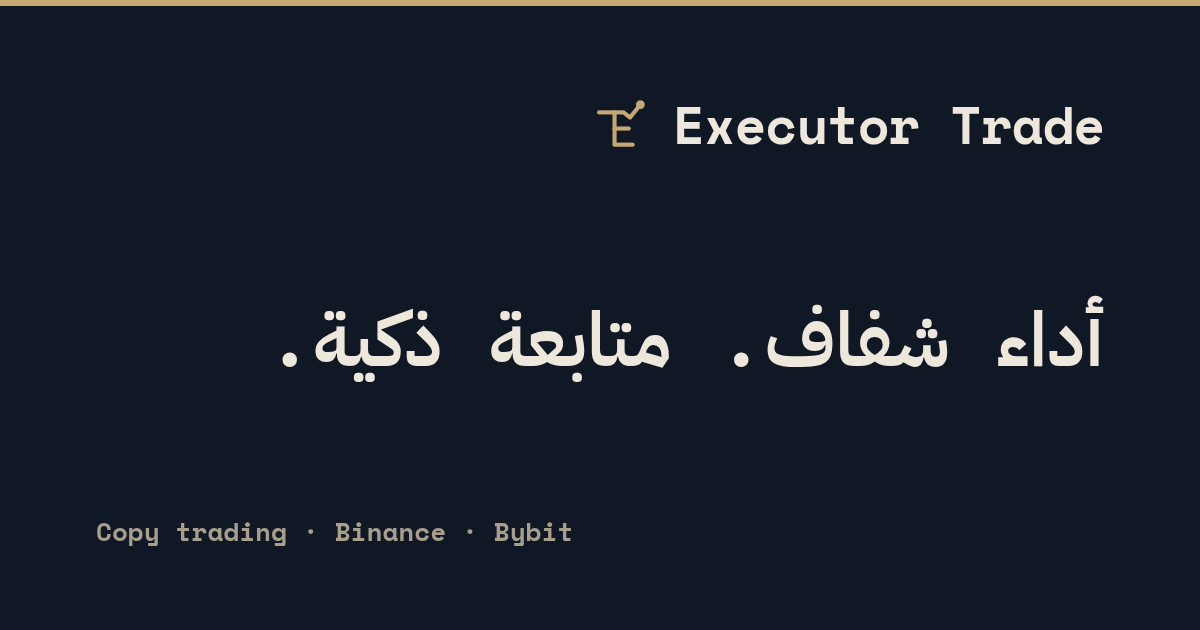
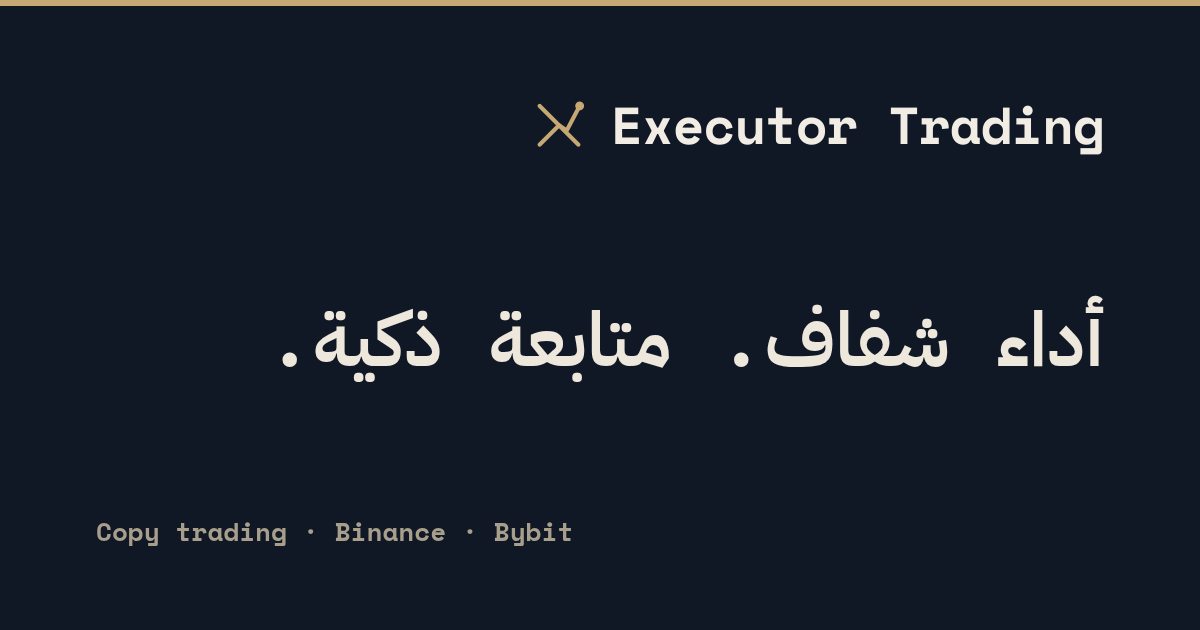
refactor

Changed region(s): [[0.4317, 0.1508, 0.925, 0.2413]]

diff --git a/google-apps-script.js b/google-apps-script.js
@@ -48,7 +48,7 @@ function saveContact(data) {
   MailApp.sendEmail({
     to: CONTACT_TO,
     replyTo: String(data.email || '').slice(0, 200),
-    subject: 'Executor Trade iletişim: ' + (String(data.name || '').slice(0, 100) || data.email),
+    subject: 'Executor Trading iletişim: ' + (String(data.name || '').slice(0, 100) || data.email),
     body: String(data.message || '').slice(0, 5000) + '\n\n— ' + String(data.name || '') + ' <' + String(data.email || '') + '> (' + String(data.lang || '') + ')',
   });
 }

diff --git a/README.md b/README.md
@@ -1,8 +1,8 @@
 A single-page dashboard that visualizes the backtest and live-style performance of the Executor BTC Trend-Following Bot (v5), a professional cryptocurrency algorithmic trading system. View the dashboard at [https://executortrading.com](https://executortrading.com) (English, also /tr/, /ar/, /zh/).
 
-# Executor Trade — Website
+# Executor Trading — Website
 
-Bitcoin (BTC) üzerinde çalışan, trend-takip esaslı algoritmik trading botu **Executor Trade**'in tanıtım ve performans sitesi. [Astro](https://astro.build) + Tailwind ile derlenir. 4 dil: `/` İngilizce (varsayılan), `/tr/`, `/ar/` (RTL), `/zh/`. Tek (koyu) tema. Hakkımızda + 4 yasal sayfa, çerez onayı (GA4 ve Clarity yalnızca onayla yüklenir).
+Bitcoin (BTC) üzerinde çalışan, trend-takip esaslı algoritmik trading botu **Executor Trading**'in tanıtım ve performans sitesi. [Astro](https://astro.build) + Tailwind ile derlenir. 4 dil: `/` İngilizce (varsayılan), `/tr/`, `/ar/` (RTL), `/zh/`. Tek (koyu) tema. Hakkımızda + 4 yasal sayfa, çerez onayı (GA4 ve Clarity yalnızca onayla yüklenir).
 
 Küçük özet veriler (`i18n.json`, `config.json`, `monthly.csv`, `yearly.csv`, `trades.csv`, varsayılan 1 yıllık seri) build zamanında sayfaya gömülür; büyük/nadiren kullanılan veriler (`performance.csv` ve diğer zaman aralığı CSV'leri) tarayıcıda çalışma anında `fetch` edilir — bu kısımlar `data/` güncellenince, rebuild olmadan bile anında günceldir.
 
